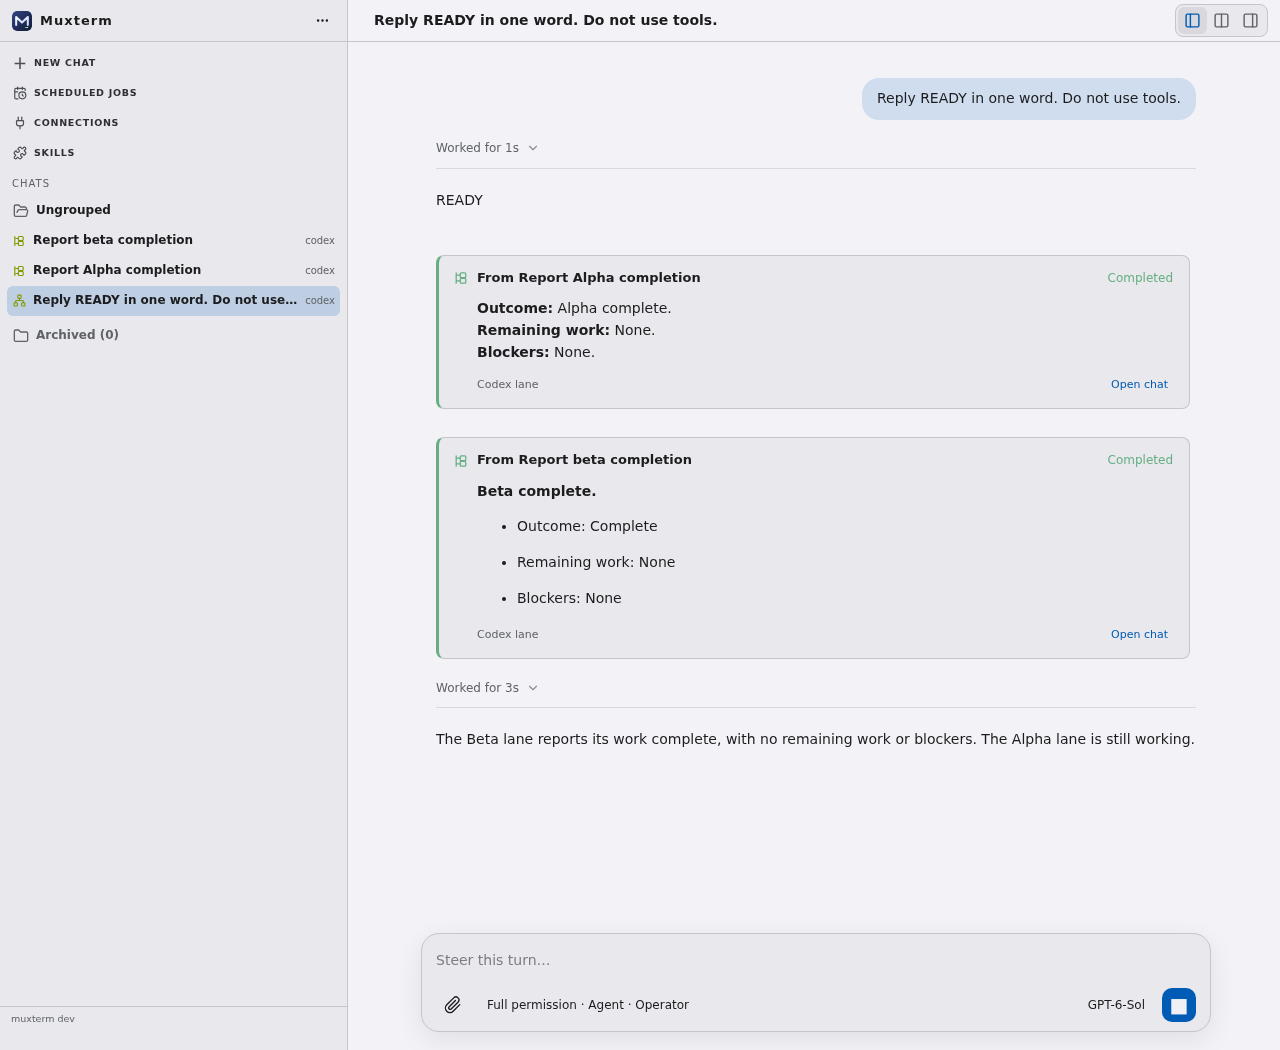
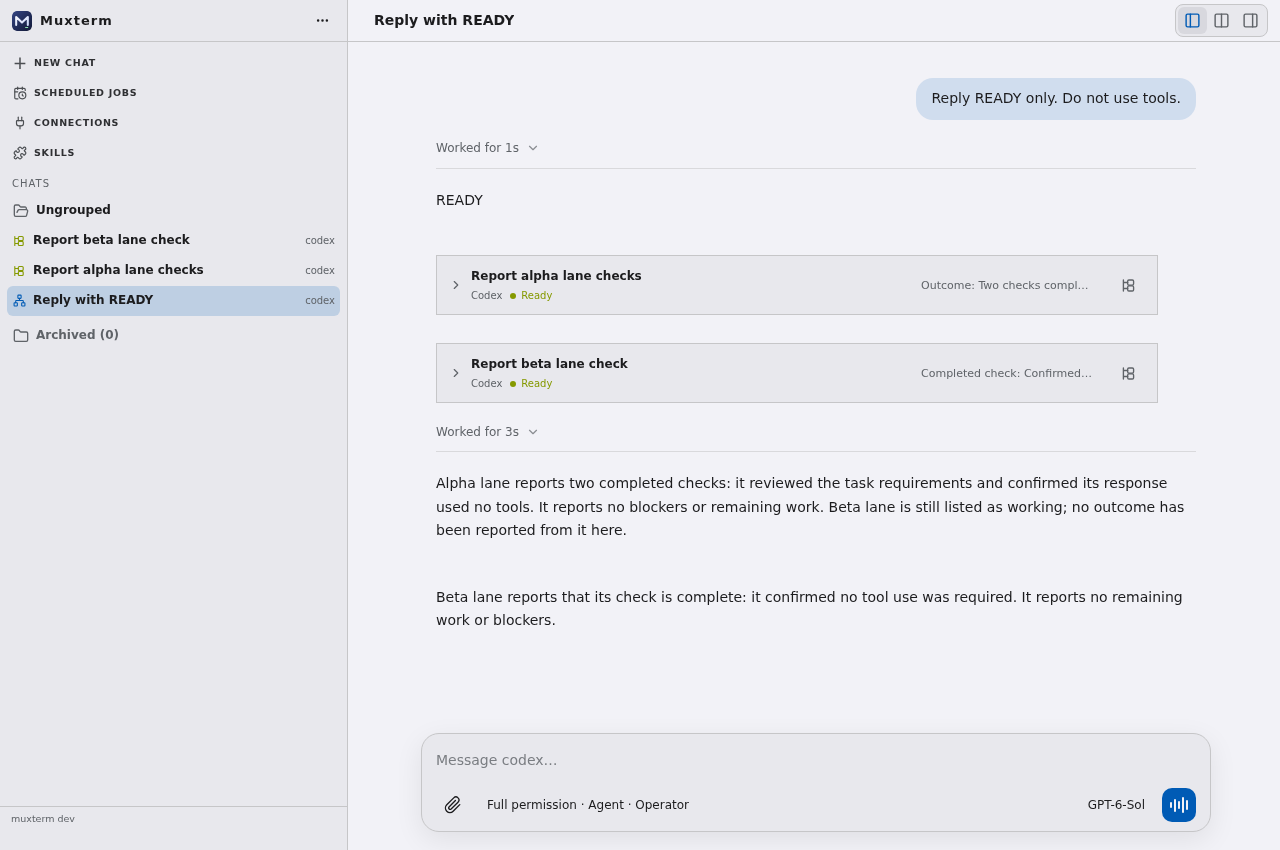
Match lane reports to operator status rows

diff --git a/web/src/components/mux-sdk-chat.ts b/web/src/components/mux-sdk-chat.ts
@@ -145,6 +145,7 @@ export class MuxSDKChat extends LitElement {
   };
   private resetDrop = () => { this.dragDepth = 0; this.dropActive = false; };
   private workExpanded = new Set<number>();
+  private laneReportsExpanded = new Set<number>();
   private stepExpanded = new Set<string>();
   private turnStarted = new Map<number, number>();
   private turnFinished = new Map<number, number>();
@@ -229,20 +230,38 @@ export class MuxSDKChat extends LitElement {
     .bubble { max-width:min(82%,660px); padding:10px 15px; border-radius:17px; background:color-mix(in srgb,var(--chrome-accent) 14%,var(--chrome-body)); white-space:pre-wrap; overflow-wrap:anywhere; font-size:14px; line-height:1.55; }
     .bubble img { display:block; max-width:min(100%,240px); max-height:180px; border-radius:9px; margin-top:8px; object-fit:contain; }
     .bubble a { display:block; margin-top:7px; color:var(--chrome-accent); }
-    .lane-report-card { --lane-color:var(--chrome-accent); max-width:720px; border:1px solid var(--chrome-border); border-left:3px solid var(--lane-color); border-radius:8px; padding:12px 16px 12px 14px; background:var(--chrome-bar); }
-    .lane-report-card.failed,.lane-report-card.uncertain { --lane-color:var(--chrome-danger); }
-    .lane-report-card.ready,.lane-report-card.completed { --lane-color:var(--chrome-success,#67af83); }
-    .lane-report-head { display:flex; align-items:center; gap:8px; min-width:0; }
-    .lane-report-icon { display:grid; place-items:center; flex:none; color:var(--lane-color); }
-    .lane-report-name { min-width:0; overflow:hidden; text-overflow:ellipsis; white-space:nowrap; font-size:13px; font-weight:650; color:var(--chrome-text-bright); }
-    .lane-report-state { margin-left:auto; flex:none; color:var(--lane-color); font-size:12px; }
-    .lane-report-body { margin:10px 0 0 24px; color:var(--chrome-text-bright); font-size:14px; line-height:1.55; overflow-wrap:anywhere; }
-    .lane-report-body > :first-child { margin-top:0; }
-    .lane-report-body > :last-child { margin-bottom:0; }
-    .lane-report-foot { display:flex; align-items:center; gap:10px; margin:10px 0 0 24px; color:var(--chrome-text-dim); font-size:11px; }
-    .lane-report-foot button { margin-left:auto; border:0; border-radius:4px; padding:3px 5px; background:none; color:var(--chrome-accent); font-size:11px; cursor:pointer; }
-    .lane-report-foot button:hover { text-decoration:underline; }
-    .lane-report-foot button:focus-visible { outline:2px solid var(--chrome-accent); outline-offset:2px; }
+    .lane-report-table { width:100%; max-width:720px; min-width:0; border:1px solid var(--chrome-border); background:var(--chrome-bar); }
+    .lane-report-row { display:grid; grid-template-columns:minmax(0,1fr) minmax(0,196px) 52px; min-height:58px; align-items:center; }
+    .lane-report-row:hover,.lane-report-table.expanded .lane-report-row { background:var(--chrome-hover); }
+    .lane-report-toggle { display:flex; align-items:center; gap:8px; width:100%; min-width:0; height:100%; border:0; padding:11px 12px; background:none; color:var(--chrome-text-bright); text-align:left; cursor:pointer; }
+    .lane-report-chevron { display:inline-flex; flex:none; color:var(--chrome-text-dim); transition:transform .15s; }
+    .lane-report-table.expanded .lane-report-chevron { transform:rotate(90deg); }
+    .lane-report-primary { display:block; min-width:0; flex:1; }
+    .lane-report-title { display:block; overflow:hidden; text-overflow:ellipsis; white-space:nowrap; font-size:12px; font-weight:600; }
+    .lane-report-meta { display:flex; align-items:center; gap:8px; margin-top:2px; white-space:nowrap; }
+    .lane-report-harness { color:var(--chrome-text-dim); font-size:10px; }
+    .lane-report-state { display:inline-flex; align-items:center; gap:5px; color:var(--chrome-text-dim); font-size:10px; }
+    .lane-report-state::before { content:''; width:6px; height:6px; flex:none; border-radius:50%; background:currentColor; }
+    .lane-report-state.working,.lane-report-state.starting { color:var(--chrome-accent); }
+    .lane-report-state.ready { color:var(--mux-ok,#55b981); }
+    .lane-report-state.failed,.lane-report-state.uncertain,.lane-report-state.stopped { color:var(--chrome-danger); }
+    .lane-report-preview { min-width:0; padding:11px 12px; overflow:hidden; text-overflow:ellipsis; white-space:nowrap; color:var(--chrome-text-dim); font-size:11px; }
+    .lane-report-open-cell { display:grid; place-items:center; padding:6px 10px 6px 4px; }
+    .lane-report-open { display:grid; place-items:center; width:32px; height:32px; border:1px solid transparent; border-radius:7px; padding:6px; background:none; color:var(--chrome-text-dim); cursor:pointer; }
+    .lane-report-open:hover { border-color:var(--chrome-border); background:var(--chrome-hover); color:var(--chrome-accent); }
+    .lane-report-toggle:focus-visible,.lane-report-open:focus-visible { outline:2px solid var(--chrome-accent); outline-offset:-2px; }
+    .lane-report-detail { padding:12px 12px 13px 32px; border-top:1px solid var(--chrome-border); background:color-mix(in srgb,var(--chrome-hover) 55%,var(--chrome-bar)); color:var(--chrome-text-bright); font-size:12px; line-height:1.6; overflow-wrap:anywhere; }
+    .lane-report-detail > :first-child,.lane-report-detail .md-p:first-child { margin-top:0; }
+    .lane-report-detail > :last-child,.lane-report-detail .md-p:last-child { margin-bottom:0; }
+    .lane-report-detail .md-p { margin:0 0 9px; }
+    .lane-report-detail .md-h { margin:12px 0 6px; font-size:13px; line-height:1.3; }
+    .lane-report-detail .md-ul,.lane-report-detail .md-ol { margin:6px 0 9px; padding-left:20px; }
+    .lane-report-detail .md-li { margin:3px 0; }
+    .lane-report-detail .md-pre,.lane-report-detail .md-tablewrap { max-width:100%; overflow:auto; }
+    .lane-report-detail .md-pre { padding:8px; background:var(--chrome-body); font:11px/1.45 ui-monospace,monospace; }
+    .lane-report-detail .md-link { color:var(--chrome-accent); }
+    @media(max-width:560px) { .lane-report-row { grid-template-columns:minmax(0,1fr) 40px; } .lane-report-preview { display:none; } .lane-report-toggle { gap:3px; padding-left:7px; padding-right:7px; } .lane-report-open-cell { padding:6px 4px; } }
+    @media(prefers-reduced-motion:reduce) { .lane-report-chevron { transition:none; } }
     .speaker { color:var(--chrome-text-dim,#9aa3b8); font-size:12px; font-weight:600; margin-bottom:10px; text-transform:capitalize; }
     .text { color:var(--chrome-text-bright,#d9def0); font-size:14px; line-height:1.68; overflow-wrap:anywhere; }
     .text > :first-child { margin-top:0; }
@@ -651,7 +670,7 @@ export class MuxSDKChat extends LitElement {
     this.cacheTimer = window.setTimeout(() => { this.cacheTimer = undefined; this.persistTranscriptCache(); }, 150);
   }
   private resetTranscript() {
-    this.blocks = []; this.trajectory = []; this.parsers.clear(); this.workExpanded.clear(); this.stepExpanded.clear();
+    this.blocks = []; this.trajectory = []; this.parsers.clear(); this.workExpanded.clear(); this.laneReportsExpanded.clear(); this.stepExpanded.clear();
     this.turnStarted.clear(); this.turnFinished.clear(); this.currentTurn = 0; this.now = Date.now();
     this.nextBlockKey = 0; this.turnStart = 0; this.completedInputAnchors.clear(); this.pendingInputs.clear(); this.rowsCache = undefined;
   }
@@ -1652,9 +1671,12 @@ export class MuxSDKChat extends LitElement {
   private isACPChat() { return this.chat?.harness === 'pi' || this.chat?.harness === 'opencode' || this.chat?.harness === 'deepseek'; }
   private laneCard(block: Block) {
     const name = sdkChats.chats.find(chat => chat.id === block.id)?.title || block.name || 'Linked lane';
-    const state = block.laneState === 'failed' ? 'Failed' : block.laneState === 'uncertain' ? 'Needs attention' : block.laneState === 'stopped' ? 'Stopped' : block.done ? 'Completed' : block.laneState === 'ready' ? 'Ready' : 'Working';
+    const state = block.laneState === 'failed' ? 'Failed' : block.laneState === 'uncertain' ? 'Uncertain' : block.laneState === 'stopped' ? 'Stopped' : block.laneState === 'starting' ? 'Starting' : block.laneState === 'ready' ? 'Ready' : 'Working';
     const harness = block.harness ? sdkHarnessLabel(block.harness as SDKHarnessName) || block.harness : 'Linked chat';
-    return html`<article class="lane-report-card ${block.laneState || ''}" aria-label=${`Report from lane ${name}`}><div class="lane-report-head"><span class="lane-report-icon" aria-hidden="true">${laneIcon(16)}</span><span class="lane-report-name" title=${name}>From ${name}</span><span class="lane-report-state">${state}</span></div><div class="lane-report-body">${this.markdown(block, block.key)}</div><div class="lane-report-foot"><span>${harness} lane</span>${block.id ? html`<button aria-label=${`Open lane chat: ${name}`} @click=${() => this.dispatchEvent(new CustomEvent('chat-open',{detail:{sessionId:block.id},bubbles:true,composed:true}))}>Open chat</button>` : nothing}</div></article>`;
+    const expanded = this.laneReportsExpanded.has(block.key);
+    const detailId = `lane-report-${block.key}`;
+    const preview = block.text.split('\n').find(line => line.trim())?.replace(/[*_`#]/g, '').trim() || 'Lane update';
+    return html`<article class="lane-report-table ${expanded ? 'expanded' : ''}" aria-label=${`Report from lane ${name}`}><div class="lane-report-row"><button class="lane-report-toggle" aria-label=${`${expanded ? 'Collapse' : 'Expand'} report from ${name}`} aria-expanded=${expanded} aria-controls=${detailId} @click=${() => { if (expanded) this.laneReportsExpanded.delete(block.key); else this.laneReportsExpanded.add(block.key); this.requestUpdate(); }}><span class="lane-report-chevron" aria-hidden="true">${icon(ChevronRight,{size:14})}</span><span class="lane-report-primary" title=${name}><span class="lane-report-title">${name}</span><span class="lane-report-meta"><span class="lane-report-harness">${harness}</span><span class="lane-report-state ${block.laneState || ''}">${state}</span></span></span></button><div class="lane-report-preview" title=${preview}>${preview}</div><div class="lane-report-open-cell">${block.id ? html`<button class="lane-report-open" aria-label=${`Open lane chat: ${name}`} title="Open lane chat" @click=${() => this.dispatchEvent(new CustomEvent('chat-open',{detail:{sessionId:block.id},bubbles:true,composed:true}))}>${laneIcon(17)}</button>` : nothing}</div></div>${expanded ? html`<div class="lane-report-detail" id=${detailId}>${this.markdown(block, block.key)}</div>` : nothing}</article>`;
   }
   override render() {
     const agents = this.agents();
